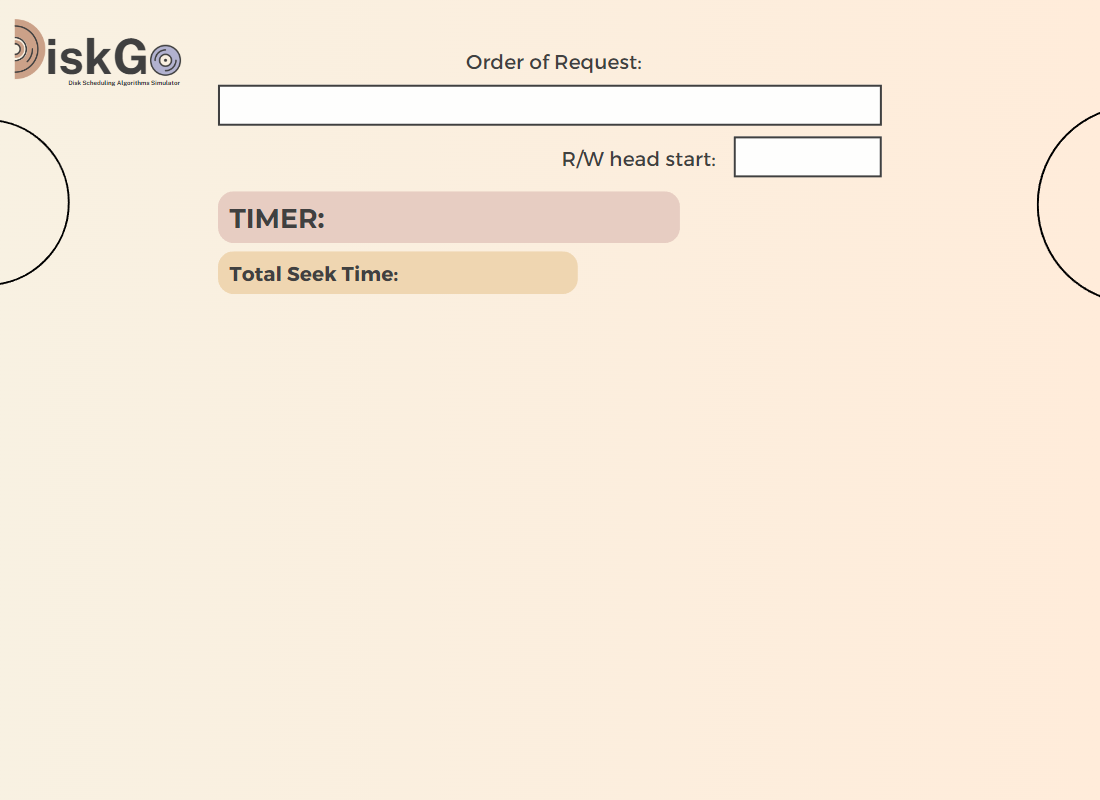
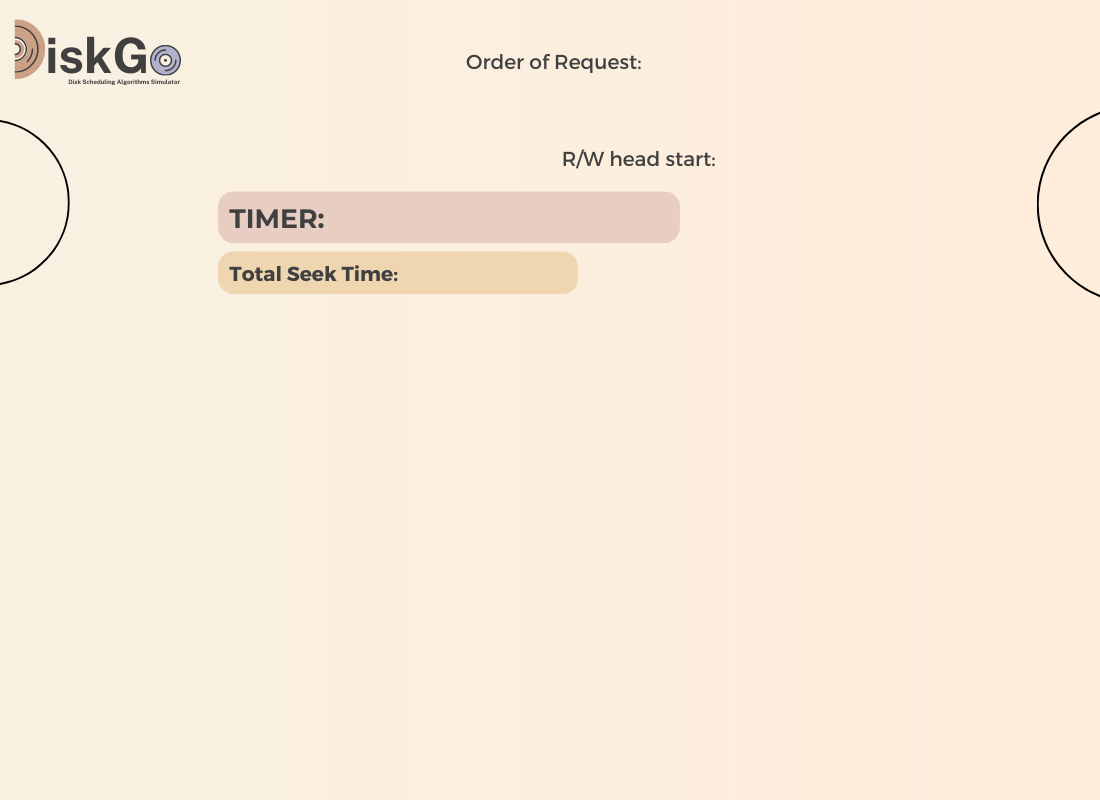
[partial] add output

Changed region(s): [[0.1855, 0.0625, 0.8036, 0.25], [0.0618, 0.0625, 0.1545, 0.125], [0.2164, 0.25, 0.2782, 0.2812]]

diff --git a/src/com/view/InputPanel.java b/src/com/view/InputPanel.java
@@ -33,17 +33,22 @@ public class InputPanel extends Panel {
     private JTextField requestQueueField, headField;
     private JSlider slider;
     private JLabel timerLabel, totalSeekTimeLabel;
+    private JPanel graphsPanel;
     private DiskScheduler diskScheduler;
+    private SeekTimeGraph graph;
     private boolean validQueue = false, validHead = false;
 
     public InputPanel() {
         super("bg/input-panel.png");
         diskScheduler = new FCFS();
+        graph = new SeekTimeGraph();
+        graphsPanel = graph;
+
         initializeButtons();
         initializeAlgorithmComboBox();
         initializeTextFields();
         initializeLabels();
-        initializeTables();
+        initializeOutput();
         initializeSlider();
         setListeners();
         addComponentsToFrame();
@@ -96,8 +101,8 @@ public class InputPanel extends Panel {
         totalSeekTimeLabel.setBounds(427, 255, 93, 32);
     }
 
-    private void initializeTables() {
-
+    private void initializeOutput() {
+        graphsPanel.setBounds(100, 347, 879, 381);
     }
 
     private void showAllTables() {
@@ -139,13 +144,19 @@ public class InputPanel extends Panel {
         });
 
         algorithmChoice.addActionListener(e -> {
-            switch ((String) Objects.requireNonNull(algorithmChoice.getSelectedItem())) {
-                case "FCFS" -> diskScheduler = new FCFS();
-                case "SSTF" -> diskScheduler = new SSTF();
-                case "SCAN" -> diskScheduler = new SCAN();
-                case "CSCAN" -> diskScheduler = new CSCAN();
-                case "LOOK" -> diskScheduler = new LOOK();
-                case "CLOOK" -> diskScheduler = new CLOOK();
+            String s = (String) Objects.requireNonNull(algorithmChoice.getSelectedItem());
+            if (s.equals("FCFS")) {
+                diskScheduler = new FCFS();
+            } else if (s.equals("SSTF")) {
+                diskScheduler = new SSTF();
+            } else if (s.equals("SCAN")) {
+                diskScheduler = new SCAN();
+            } else if (s.equals("C-SCAN")) {
+                diskScheduler = new CSCAN();
+            } else if (s.equals("LOOK")) {
+                diskScheduler = new LOOK();
+            } else if (s.equals("C-LOOK")) {
+                diskScheduler = new CLOOK();
             }
         });
 
@@ -175,6 +186,9 @@ public class InputPanel extends Panel {
             if (validHead && validQueue) {
                 pauseButton.setVisible(true);
                 runButton.setVisible(false);
+                graph.setInitialPointer(diskScheduler.getHead());
+                graph.setCylinders(diskScheduler.getCylinder());
+                graph.setQueue(diskScheduler.simulate());
             } else {
                 JOptionPane.showMessageDialog(null, "Cannot run the program. Input is invalid.", "Invalid Input", JOptionPane.ERROR_MESSAGE);
             }
@@ -222,6 +236,7 @@ public class InputPanel extends Panel {
                             invalidate(true);
                         } else {
                             input.setBackground(UIManager.getColor("TextField.background"));
+                            diskScheduler.setHead(value);
                             validHead = true;
                         }
                     } else if(input.getName().equals("requestQueueField")) {
@@ -234,17 +249,20 @@ public class InputPanel extends Panel {
                                     parts[parts.length-1].matches("\\d+")) {
                                 // Split the input into an array of integers
                                 String[] nums = str.split(",\\s");
-                                ArrayList<Integer> numList = new ArrayList<>();
-                                for (String num : nums) {
+                                int[] numList = new int[nums.length];
+                                for (int i = 0; i < nums.length; i++) {
+                                    String num = nums[i];
                                     int value = Integer.parseInt(num);
                                     // Check that each integer value in the input is between 0 and 199
                                     if (value < 0 || value > diskScheduler.getCylinder() - 1) {
                                         invalidate(false);
                                     } else {
                                         input.setBackground(UIManager.getColor("TextField.background"));
-                                        validQueue = true;
+                                        numList[i] = value;
                                     }
                                 }
+                                diskScheduler.setRequestQueue(numList);
+                                validQueue = true;
                             } else {
                                 invalidate(false);
                             }
@@ -275,9 +293,6 @@ public class InputPanel extends Panel {
     }
 
     private void addComponentsToFrame() {
-        this.add(slider);
-        this.add(timerLabel);
-        this.add(totalSeekTimeLabel);
         this.add(musicOnButton);
         this.add(musicOffButton);
         this.add(homeButton);
@@ -289,6 +304,10 @@ public class InputPanel extends Panel {
         this.add(runButton);
         this.add(pauseButton);
         this.add(saveButton);
+        this.add(slider);
+        this.add(timerLabel);
+        this.add(totalSeekTimeLabel);
+        this.add(graphsPanel);
     }
 
 

diff --git a/src/com/view/SeekTimeGraph.java b/src/com/view/SeekTimeGraph.java
@@ -1,0 +1,90 @@
+package view;
+
+
+import javax.swing.*;
+import java.awt.*;
+
+public class SeekTimeGraph extends JPanel {
+    private static final int circleSize = 10;
+    private int initialPointer;
+    private int[] queue;
+    private int cylinders;
+
+    public SeekTimeGraph(int initialPointer, int[] queue, int cylinders) {
+        this.initialPointer = initialPointer;
+        this.queue = queue;
+        this.cylinders = cylinders;
+    }
+
+    public SeekTimeGraph() {
+    }
+
+    @Override
+    protected void paintComponent(Graphics g) {
+        super.paintComponent(g);
+
+        if (queue == null)
+            return;
+
+        int h = getHeight();
+        int w = getWidth();
+
+        float verticalStep = (float) h / (float) (queue.length + 2);
+        float horizontalStep = (float)(w - circleSize) / (float) cylinders;
+
+        g.setColor(Color.black);
+
+        g.drawLine(0, 25, w, 25);
+
+        g.drawString(String.valueOf(initialPointer), (int) (initialPointer * horizontalStep) + circleSize, 20);
+        g.drawLine((int) (initialPointer * horizontalStep) + (circleSize / 2), 0, (int) (initialPointer * horizontalStep) + (circleSize / 2), 25);
+
+        for (int i = 0; i < queue.length - 1; i++) {
+            g.drawString(String.valueOf(queue[i]), (int) (queue[i] * horizontalStep) + circleSize, 20);
+            g.drawLine((int) (queue[i] * horizontalStep) + (circleSize / 2), 0, (int) (queue[i] * horizontalStep) + (circleSize / 2), 25);
+        }
+
+        g.setColor(Color.blue);
+
+        g.fillOval((int) (initialPointer * horizontalStep), (int) verticalStep - (circleSize / 2), circleSize, circleSize);
+        g.drawLine((int) (initialPointer * horizontalStep) + (circleSize / 2), (int) verticalStep, (int) (queue[0] * horizontalStep)  + (circleSize / 2), (int) (2 * verticalStep));
+
+        for (int i = 0; i < queue.length - 1; i++) {
+            g.fillOval((int) (queue[i] * horizontalStep), (int) ((i + 2) * verticalStep) - (circleSize / 2), circleSize, circleSize);
+            g.drawLine((int) (queue[i] * horizontalStep) + (circleSize / 2), (int) ((i + 2) * verticalStep), (int) (queue[i + 1] * horizontalStep)  + (circleSize / 2), (int) ((i + 3) * verticalStep));
+        }
+
+        g.fillOval((int) (queue[queue.length - 1] * horizontalStep), (int) ((queue.length + 1) * verticalStep) - (circleSize / 2), circleSize, circleSize);
+    }
+
+    public int getInitialPointer() {
+        return initialPointer;
+    }
+
+    public void setInitialPointer(int initialPointer) {
+        this.initialPointer = initialPointer;
+        repaint();
+    }
+
+    public int[] getQueue() {
+        return queue;
+    }
+
+    public void setQueue(int[] queue) {
+        this.queue = queue;
+        repaint();
+    }
+
+    public int getCylinders() {
+        return cylinders;
+    }
+
+    public void setCylinders(int cylinders) {
+        this.cylinders = cylinders;
+    }
+
+    @Override
+    public Dimension getMinimumSize() {
+        return new Dimension(200, 100);
+    }
+}
